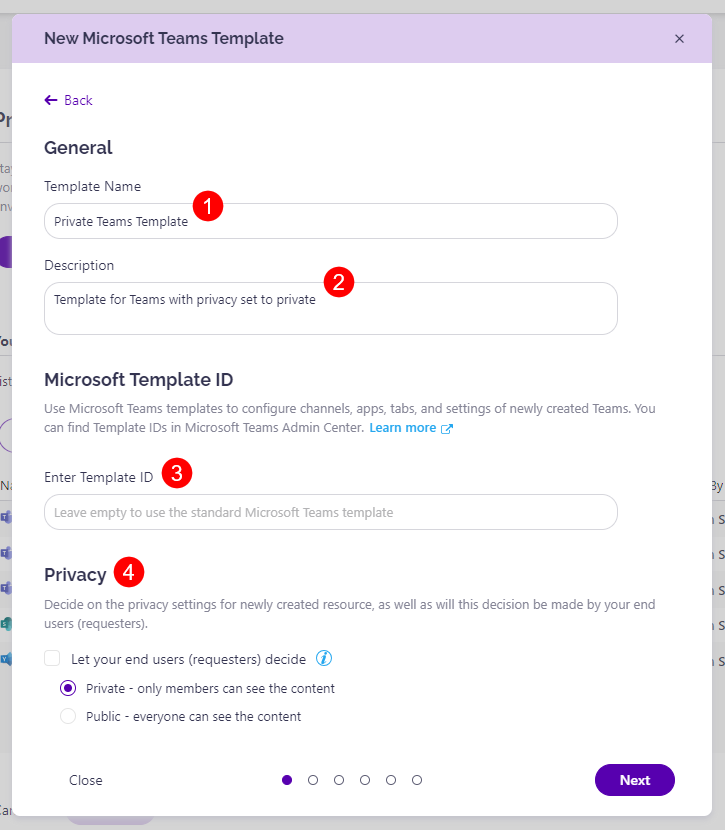
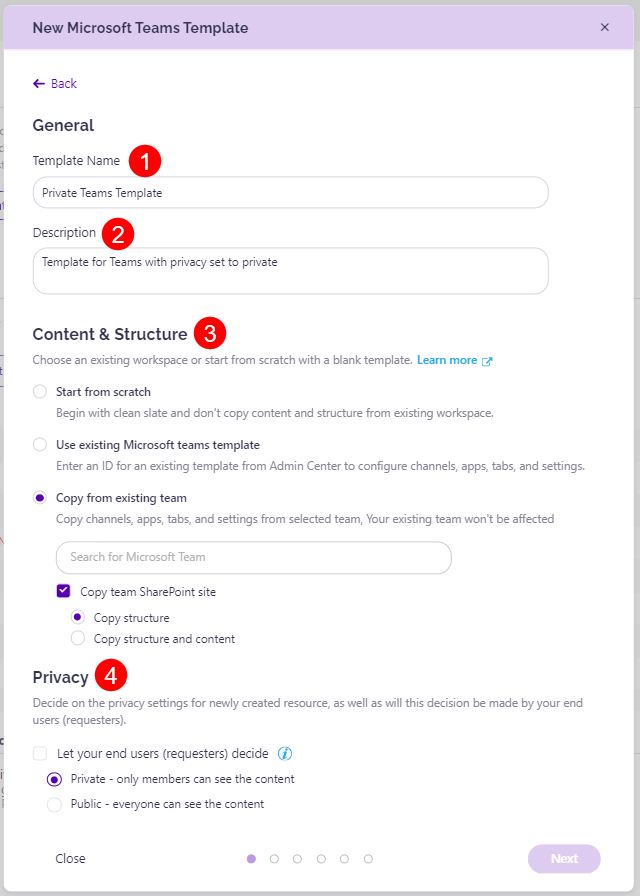
content structure article

Changed region(s): [[0.0, 0.0, 1.0, 1.0], [0.5312, 0.7831, 0.9062, 0.8133]]

diff --git a/governance-and-automation/provisioning/content-and-structure.md b/governance-and-automation/provisioning/content-and-structure.md
@@ -1,0 +1,105 @@
+---
+description: This article explains how the content and structure aspect of Provisioning works.
+---
+
+# Content & Structure
+
+The Content & Structure section for Provisioning lets you copy the structure or both the structure and content of an existing Team, Group, or Site in order to make things easier for you when provisioning a new one. 
+
+The options you have are the following:
+
+* **Start from scratch (1)**
+  * Selecting this option means that your new provisioned workspace will be a clean slate. 
+  * Default apps or channels will not be created, and the content and structure will not be copied from an existing workspace. 
+
+* **Use existing Microsoft Teams template (2)**
+  * After selecting this option, you need to enter Microsoft template ID for an existing template.
+  * Syskit Point integrates with team templates you have created in the **Microsoft 365 Teams admin center**. 
+  * When you enter a team template ID, Syskit Point creates predefined apps, channels, and tabs for the new workspaces that use the template.
+
+* **Copy from existing team (3)**
+  * When selecting this, you need to select the workspace you want to copy by entering the name (or identifying information) of the workspace in the space provided.
+  * This copies channels, apps, tabs, and settings from the selected workspace to the one being provisioned. 
+  * You can also select whether to **check the Copy team SharePoint site (4)** checkbox
+    * If the check is marked, you can also select whether to:
+      * Copy structure - this copies only the structure of the workspace but not the content
+      * Copy structure and content - this copies both the structure of the workspace and the content within the workspace
+
+![Provisioning - Content & Structure](../../.gitbook/assets/provisioning-content-and-structure-section.png)
+
+
+## Content & Structure Options
+
+Here, you can find a list of all objects that can be copied, along with which of the three options will copy which objects. 
+
+**Channels & channel folders**
+  * **Will not be** copied **if Start from scratch** is selected
+  * **Will be** copied **if Use existing Microsoft Teams template** is selected
+  * **Will be** copied **if Copy from existing team** is selected
+  * **Will be** copied **if Copy team SharePoint site - Copy structure** is selected
+  * **Will be** copied **if Copy team SharePoint site - Copy structure and content** is selected
+
+**Apps**
+  * **Will not be** copied **if Start from scratch** is selected
+  * **Will be** copied **if Use existing Microsoft Teams template** is selected
+  * **Will be** copied **if Copy from existing team** is selected
+  * **Will be** copied **if Copy team SharePoint site - Copy structure** is selected
+  * **Will be** copied **if Copy team SharePoint site - Copy structure and content** is selected
+
+**Tabs**
+  * **Will not be** copied **if Start from scratch** is selected
+  * **Will be** copied **if Use existing Microsoft Teams template** is selected
+  * **Will be** copied **if Copy from existing team** is selected
+  * **Will be** copied **if Copy team SharePoint site - Copy structure** is selected
+  * **Will be** copied **if Copy team SharePoint site - Copy structure and content** is selected
+
+**Site Theme**
+  * **Will not be** copied **if Start from scratch** is selected
+  * **Will not be** copied **if Use existing Microsoft Teams template** is selected
+  * **Will not be** copied **if Copy from existing team** is selected
+  * **Will not be** copied **if Copy team SharePoint site - Copy structure** is selected
+  * **Will not be** copied **if Copy team SharePoint site - Copy structure and content** is selected
+
+**Subsites**
+  * **Will not be** copied **if Start from scratch** is selected
+  * **Will not be** copied **if Use existing Microsoft Teams template** is selected
+  * **Will not be** copied **if Copy from existing team** is selected
+  * **Will not be** copied **if Copy team SharePoint site - Copy structure** is selected
+  * **Will not be** copied **if Copy team SharePoint site - Copy structure and content** is selected
+
+**Document Libraries and Lists**
+  * **Will not be** copied **if Start from scratch** is selected
+  * **Will not be** copied **if Use existing Microsoft Teams template** is selected
+  * **Will not be** copied **if Copy from existing team** is selected
+  * **Will be** copied **if Copy team SharePoint site - Copy structure** is selected
+  * **Will be** copied **if Copy team SharePoint site - Copy structure and content** is selected
+
+**Folders**
+  * **Will not be** copied **if Start from scratch** is selected
+  * **Will not be** copied **if Use existing Microsoft Teams template** is selected
+  * **Will not be** copied **if Copy from existing team** is selected
+  * **Will be** copied **if Copy team SharePoint site - Copy structure** is selected
+  * **Will be** copied **if Copy team SharePoint site - Copy structure and content** is selected
+
+**Files/Documents**
+  * **Will not be** copied **if Start from scratch** is selected
+  * **Will not be** copied **if Use existing Microsoft Teams template** is selected
+  * **Will not be** copied **if Copy from existing team** is selected
+  * **Will not be** copied **if Copy team SharePoint site - Copy structure** is selected
+  * **Will be** copied **if Copy team SharePoint site - Copy structure and content** is selected
+    * Up to 20 files can be copied
+
+
+
+{% hint style="warning" %}
+**Please note** the following: 
+* **Channels & channel folders are provisioned by Microsoft** 365 and visible only after the first post is made and by **navigating to the Files tab** in the Teams app
+* **Empty folders** are not copied
+* **Folder color** is not copied
+* When copying files, **up to 20 files can be copied** 
+* If **more than 20 files are detected**, they are **not copied and the Admin receives an email** stating that the Content will not be applied
+
+{% endhint %}
+
+
+Find more details on how to create Provisioning templates in the [Templates article](templates.md).

diff --git a/governance-and-automation/provisioning/templates.md b/governance-and-automation/provisioning/templates.md
@@ -52,9 +52,8 @@ When creating a template for Microsoft Teams, you will need to define the follow
 
 * **Name (1)** – A name you provide here will be used as a template name that is visible to your users
 * **Description (2)** – Describe in short when to use this template; end-users will see it when requesting a new workspace using a list of templates
-* **Microsoft template ID (3)** – This property is used to predefine apps, channels, and tabs that should be created for new workspaces that use this Syskit Point template.
-  * If you leave this property empty, default apps or channels will not be created; it will be a blank MS team.
-  * Syskit Point integrates with team templates you have created in the **Microsoft 365 Teams admin center**. When you enter a team template ID, Syskit Point will create apps, tabs, and channels you defined there.
+* **Content & Structure (3)** - choose an existing workspace or from scratch with a blank template
+  * [For more details on this section, take a look at the Content & Structure article](content-and-structure.md)
 
 To review currently available templates in your M365 tenant and use them in Syskit Point:
 

diff --git a/SUMMARY.md b/SUMMARY.md
@@ -199,6 +199,7 @@
     * [Enable Sensitivity Labels](governance-and-automation/provisioning/enable-sensitivity-labels.md)
     * [Restrict Microsoft 365 Groups Creation](governance-and-automation/provisioning/restrict-group-creation.md)
     * [Templates](governance-and-automation/provisioning/templates.md)
+    * [Content & Structure](governance-and-automation/provisioning/content-and-structure.md)
     * [Configure Provisioning Failure Notifications](governance-and-automation/provisioning/configure-provisioning-failure-notifications.md)
     * [Approval Processes](governance-and-automation/provisioning/approval-processes.md)
     * [Approve/Reject Requests](governance-and-automation/provisioning/approve-reject-requests.md)
